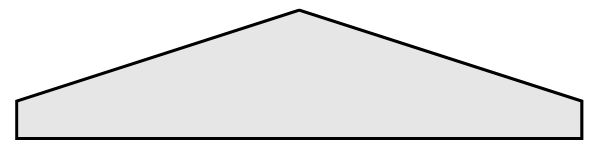
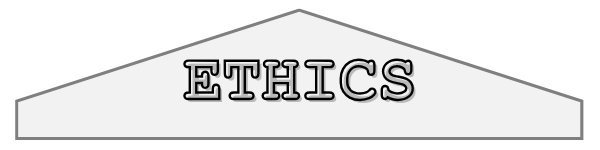
.

diff --git a/ethics.html b/ethics.html
@@ -19,33 +19,112 @@
         <a href="article.html">ARTICLE</a>
     </nav>
     <section id="section4" class="section section4">
-        <div><img src="assets/images/pillartop.png" alt=""></div>
+        <div><img src="assets/images/pillartop.png" alt="Ethics_Introduction"></div>
         <div class="icon-row">
-                <img src="assets/images/pillars.png">
-                <img src="assets/images/pillars.png">
-                <img src="assets/images/pillars.png">
-                <img src="assets/images/pillars.png">
+                <img src="assets/images/pillar1.png" alt="ethic1">
+                <img src="assets/images/pillar2.png" alt="ethic2">
+                <img src="assets/images/pillar3.png" alt="ethic3">
+                <img src="assets/images/pillar4.png" alt="ethic4">
         </div>
-        <div><img src="assets/images/pillarbottom.png" alt=""></div>
+        <div><img src="assets/images/pillarbottom.png" alt="Ethics_Conclusion"></div>
     </section>
 
-    <section id="section5" class="section section5">
-        
+    <section id="section5" class="section section5" alt="Pillar_Top">
+    <h1>1. What Ethical AI Means</h1>
+    <p>Ethical AI refers to the principles and expectations that guide how artificial intelligence should be designed and used so that it aligns with widely accepted ideas of right and wrong. While morals, ethics, and laws all relate to human behavior, ethics in AI specifically focuses on external standards, such as professional codes, societal norms, and institutional values, that shape responsible development. Because AI reflects the judgments of the people who build it, issues like privacy, surveillance, bias, and discrimination can easily appear in its outputs if ethical safeguards are weak or ignored. Ethical AI therefore seeks to ensure that these systems are created in ways that uphold human dignity, minimize harm, and support fairness and accountability.</p>
+    <h1>2. Why Ethical AI Matters</h1>
+    <p>AI systems are becoming deeply embedded in everyday life, increasingly influencing decisions, opportunities, and access to services. With this growing power comes an equally significant responsibility: poorly designed or misused AI can cause real harm, spread misinformation, reinforce discrimination, or operate without meaningful oversight. Ethical AI practices help prevent these outcomes by promoting transparency, human oversight, and public accountability. They support the safe and sustainable development of AI, build trust between users and technology, and help ensure that AI enhances society rather than undermining it, even as the technology continues to evolve rapidly.</p>
     </section>
 
-    <section id="section6" class="section section6">
+    <section id="section6" class="section section6" alt="Pillar_One">
+        <div class="rounded-box">
+            <h1>HUMAN RIGHTS & VALUES</h1>
+            <p>Artificial intelligence should always place people first. This means designing systems that respect human dignity, protect individual freedoms, and treat everyone fairly. A human-centered approach helps ensure AI supports society rather than reinforcing existing problems.</p>
+            <p><b>• Protecting dignity, autonomy, and equality</p></b><p>AI should respect each person’s worth and independence. It must not limit people’s freedom to make choices or treat anyone as less important because of who they are.</p>
+            <p><b>• Preventing discrimination and harmful bias</p></b><p>Since AI learns from human-created data, it can unintentionally repeat unfair patterns. Developers must monitor, test, and adjust systems so that they avoid biased or unequal outcomes.</p>
+            <p><b>• Ensuring AI supports well-being</p></b><p>Technology should help people, not replace them or put them at risk. Ethical design considers safety, accuracy, and whether the system benefits the individuals who interact with it.</p>
+            <p><b>• Encouraging accessible and inclusive design</p></b><p>AI should be usable and beneficial to a wide range of people, including those with different abilities, backgrounds, and needs. This means designing tools that are understandable, available, and sensitive to diverse communities.</p>
+        </div>
     </section>
 
-    <section id="section7" class="section section7">
+    <section id="section7" class="section section7" alt="Pillar_Two">
+        <div class="rounded-box">
+            <h1>TRANSPARENCY</h1>
+            <p>Transparency is essential for building trust in AI systems. When people understand how an AI works, what data it uses, how decisions are reached, and where human oversight fits in, they are better able to judge whether the system is fair, safe, and appropriate.</p>
+            <p><b>• Helping users understand how AI reaches its decisions</p></b><p>The public increasingly expects to know <i>why</i> an AI gives a certain output. Providing explanations, even simple ones, helps users make informed choices and reduces uncertainty about hidden or automated processes.</p>
+            <p><b>• Making AI systems open, traceable, and well-documented</p></b><p>Regulations such as GDPR and CCPA require organizations to clearly document how data is collected and used, and to maintain records of how AI systems operate. This traceability allows errors to be caught early and helps ensure systems behave as intended.</p>
+            <p><b>• Clearly communicating when AI is involved</p></b><p>Users should always be told when an AI is part of a decision-making process, whether reviewing data, scoring information, or recommending outcomes. Open communication strengthens trust and helps prevent confusion or unintentional reliance on automated results.</p>
+            <p><b>• Supporting accountability and reducing misinformation</p></b><p>Transparent systems make it easier to identify incorrect, biased, or misleading outputs. They also clarify who is responsible for the system’s behavior, making oversight more effective and reducing the chance of unnoticed harm.</p><br>
+            <p>Transparency ensures AI does not operate as an unseen “black box.” By being open about data practices, decision processes, and system limitations, organizations help create AI that is safer, more trustworthy, and more aligned with public expectations.</p>
+        </div>
     </section>
 
-    <section id="section8" class="section section8">
+    <section id="section8" class="section section8" alt="Pillar_Three">
+        <div class="rounded-box">
+            <h1>PRIVACY & SECURITY</h1>
+            <p>Privacy and security are essential to ethical AI because these systems often rely on large amounts of personal data. AI can gather information quickly, combine it from many places, and reveal details people never intended to share. When data is handled carelessly or without proper safeguards, individuals can be exposed to surveillance, misuse, and loss of control over their own information.</p>
+            <p><b>• Collecting and using personal data responsibly</b></p></b><p>AI should only use data in ways that respect an individual’s expectations and rights. Because AI can analyze enormous datasets in ways humans cannot, it becomes even more important to limit how much information is gathered and ensure it is used for clearly defined, ethical purposes.</p>
+            <p><b>• Ensuring privacy safeguards and meaningful consent</b></p></b><p>People deserve to know when their information is being collected, how it will be used, and who will have access to it. Many harms arise when data is gathered silently or shared without permission, especially in systems that track personal behavior.</p>
+            <p><b>• Protecting data through secure storage and handling</b></p></b><p>Strong security practices are necessary to prevent leaks, unauthorized access, or large-scale breaches. This includes properly storing data, restricting who can view it, and deleting it when it is no longer needed, steps that become more critical as AI systems process sensitive personal information.</p>
+            <p><b>• Reducing risks of surveillance and misuse</b></p></b><p>AI’s ability to combine data from phones, sensors, online activity, and public systems can create powerful tools, but also increases the possibility of invasive monitoring. Ethical use requires careful limits to prevent technologies from being used to track or profile people unfairly.</p>
+        </div>
     </section>
 
-    <section id="section9" class="section section9">
+    <section id="section9" class="section section9" alt="Pillar_Four">
+        <div class="rounded-box">
+            <h1>RESPONSIBILITY</h1>
+            <p>Ethical AI requires clearly defined responsibility. AI systems do not carry moral or ethical burden, humans do. Because developers, organizations, and decision-makers shape how AI behaves, they must be accountable for the outcomes it produces. </p>
+            <p><b>• Assigning responsibility for AI decisions and outcomes</b></p></b><p>AI cannot justify or explain its own actions; the obligation falls on the humans who design, deploy, or oversee the system. Clear roles and responsibilities help ensure that someone is answerable when decisions impact individuals or communities.</p>
+            <p><b>• Ongoing monitoring, auditing, and impact assessments</b></p></b><p>Ethical challenges arise when systems operate without oversight. Regular auditing, testing, and documentation help catch harmful patterns early, confirm that the system behaves as intended, and prevent unnoticed drift or misuse.</p>
+            <p><b>• Preventing unsafe, misleading, or harmful outputs</b></p></b><p>AI can amplify mistakes at scale if left unchecked. Responsible use means putting safeguards in place to reduce misinformation, limit harmful consequences, and ensure that results remain accurate and safe for real-world use.</p>
+            <p><b>• Considering environmental and societal impact</b></p></b><p>Evaluating how AI affects social structures, vulnerable populations, and even resource consumption, ensuring that technological progress does not create new forms of harm.</p>
+        </div>
     </section>
 
-    <section id="section10" class="section section10">
+    <section id="section10" class="section section10" alt="Pillar_Bottom">
+        <div class="rounded-box">
+            <h1>WITHIN PRACTICE</h1>
+            <p>Ethical AI becomes meaningful only when its principles are applied in real situations. Responsible AI is not just about theory; it requires ongoing processes, human oversight, and careful evaluation at every stage of a system’s life cycle. This focuses on turning ethical guidelines into clear actions that help prevent harm, improve reliability, and ensure AI remains aligned with human values over time.</p>
+        </div>
+           <div class="collapse collapse-plus bg-base-100 border border-base-300">
+            <input type="radio" name="my-accordion-3" checked="checked" />
+                <div class="collapse-title font-semibold">• Conducting ethical impact assessments before deployment</div>
+                <div class="collapse-content text-sm">Before an AI system is released, developers should evaluate how it could affect people, identify possible risks, and determine whether the system aligns with societal expectations. Early assessment helps prevent issues that could become serious once the system is widely used.</div>
+        </div>
+        <div class="collapse collapse-plus bg-base-100 border border-base-300">
+            <input type="radio" name="my-accordion-3" />
+                <div class="collapse-title font-semibold">• Using high-quality, unbiased training data</div>
+                <div class="collapse-content text-sm">Poor or unrepresentative data leads directly to unfair or harmful outcomes. Carefully selecting and reviewing data helps reduce bias and improves the system’s overall trustworthiness.</div>
+        </div>
+        <div class="collapse collapse-plus bg-base-100 border border-base-300">
+            <input type="radio" name="my-accordion-3" />
+                <div class="collapse-title font-semibold">• Documenting and auditing AI systems regularly</div>
+                <div class="collapse-content text-sm">AI must be monitored continuously, not just at launch. Routine testing, auditing, and clear documentation allow organizations to catch errors, track system changes, and ensure that the model behaves consistently.</div>
+        </div>
+        <div class="collapse collapse-plus bg-base-100 border border-base-300">
+            <input type="radio" name="my-accordion-3" />
+                <div class="collapse-title font-semibold">• Maintaining meaningful human oversight</div>
+                <div class="collapse-content text-sm">Humans must remain the final decision-makers in high-stakes or sensitive situations. AI can support analysis and speed, but responsibility and judgment should stay with people to prevent unintended or unjust outcomes.</div>
+        </div>
+        <div class="collapse collapse-plus bg-base-100 border border-base-300">
+            <input type="radio" name="my-accordion-3" />
+                <div class="collapse-title font-semibold">• Updating AI systems as contexts and rules evolve</div>
+                <div class="collapse-content text-sm">AI exists in a fast-changing environment. Laws, social expectations, and real-world conditions shift over time, so systems should be reviewed and improved regularly to ensure they remain safe, lawful, and relevant.</div>
+        </div>
+        <div class="collapse collapse-plus bg-base-100 border border-base-300">
+            <input type="radio" name="my-accordion-3" />
+                <div class="collapse-title font-semibold">REFERENCES: </div>
+                <div class="collapse-content text-sm"> <ol>
+                    <li><b>Julie Mehan. (2024). <i>Artificial Intelligence : Ethical, Social, and Security Impacts for the Present and the Future, Second Edition.</i> ITGP. </b></li>
+                    <li><b>Ethics|| Pages:</b>104–110, 135–140</li>
+                    <li><b>Human Rights & Values || Pages:</b>290–292, 295–296,305</li>
+                    <li><b>Transparency || Pages:</b>112–113, 113–114</li>
+                    <li><b>Privacy & Security || Pages:</b>152–156</li>
+                    <li><b>Responsibility|| Pages:</b>112–116, 155–156</li>
+                    <li><b>Within Practice|| Pages:</b>112–116, 50–156, 289–305</li>
+                    </ol>
+                </div>
+        </div>
     </section>
 
     <script src="https://cdn.jsdelivr.net/npm/@tailwindcss/browser@4"></script>

diff --git a/assets/style.css b/assets/style.css
@@ -193,9 +193,98 @@ body.dark-mode .section3 .collapse{
 
 .section4 img:hover {
     transform: scale(1.2);
-    transition: 0.3ms;
+    transition: 0.5ms;
 }
 .section4 .icon-row img {
     margin-left: -15px;
     margin-right: -15px;
+}
+
+.section5  {
+    flex-direction: column;
+    justify-content: flex-start;
+    align-items: center;
+    text-align: justify;
+    text-shadow: #ffffff 1px 1px 2px;
+    padding: 50px;
+}
+
+body.dark-mode .section5 h1 {
+    color: #ffffff;
+}
+body.dark-mode .section5 p {
+    color: #ffffff;
+    font-weight: normal;
+}
+.section5 h1 {
+    font-size: 36px;
+    margin-bottom: 20px;
+    font-weight: bold;
+}
+.section5 p {
+    width: 80%;
+    margin-bottom: 40px;
+    font-size: 18px;
+    line-height: 1.6;
+    font-weight: bold;
+}
+.rounded-box {
+    box-shadow: 0 4px 6px -1px rgba(0, 0, 0, 0.1);
+    width: 90%;
+    border-color: #333;
+    border: 2px solid;
+    background-color: #ffffff76;
+    border-radius: 8px; 
+    padding: 1rem;
+    margin: 0 auto; 
+}
+.rounded-box {
+    border-color: #446c76;
+    background-color: #122639cb; 
+    text-shadow: #ffffff 1px 1px 2px;
+}
+
+.rounded-box h1 {
+    font-size: 32px;
+    margin-bottom: 15px;
+}
+.rounded-box p {
+    font-size: 18px;
+    line-height: 1.6;
+    text-align: justify;
+}
+.section10 {
+    flex-direction: column;
+    justify-content: flex-start;
+    align-items: center;
+    text-align: justify;
+    padding-top: 100px; 
+    text-shadow: #ffffff 1px 1px 2px;
+}
+body.dark-mode .section10 h1 {
+    color: #ffffff;
+}
+.section10 .collapse {
+    width: 90%;
+    margin-bottom: 10px;
+    border-color: #333;
+    background-color: #ffffff76;
+    margin-top: -10px;
+}
+body.dark-mode .section10 .collapse{
+    border-color: #446c76;
+    background-color: #122639cb; 
+}
+.section10 .rounded-box {
+    margin-top: -55px;
+    margin-bottom: 20px;
+}
+.section10 .rounded-box h1 {
+    font-size: 20px;
+    text-align: center;
+}
+.section10 .rounded-box p {
+    font-size: 15px;
+    line-height: 1.6;
+    text-align: justify;
 }

diff --git a/assets/script.js b/assets/script.js
@@ -33,3 +33,19 @@ themeToggle.addEventListener('click', () => {
     applyTheme(isDark);
     localStorage.setItem('theme', isDark ? 'dark' : 'light');
 });
+
+document.addEventListener('DOMContentLoaded', () => {
+    const pillarImages = document.querySelectorAll('.section4 img');
+    pillarImages.forEach((img, index) => {
+        img.addEventListener('click', () => {
+            const targetSectionId = `section${5 + index}`;
+            const targetSection = document.getElementById(targetSectionId);
+            if (targetSection) {
+                targetSection.scrollIntoView({
+                    behavior: 'smooth',
+                    block: 'start'     
+                });
+            }
+        });
+    });
+});
